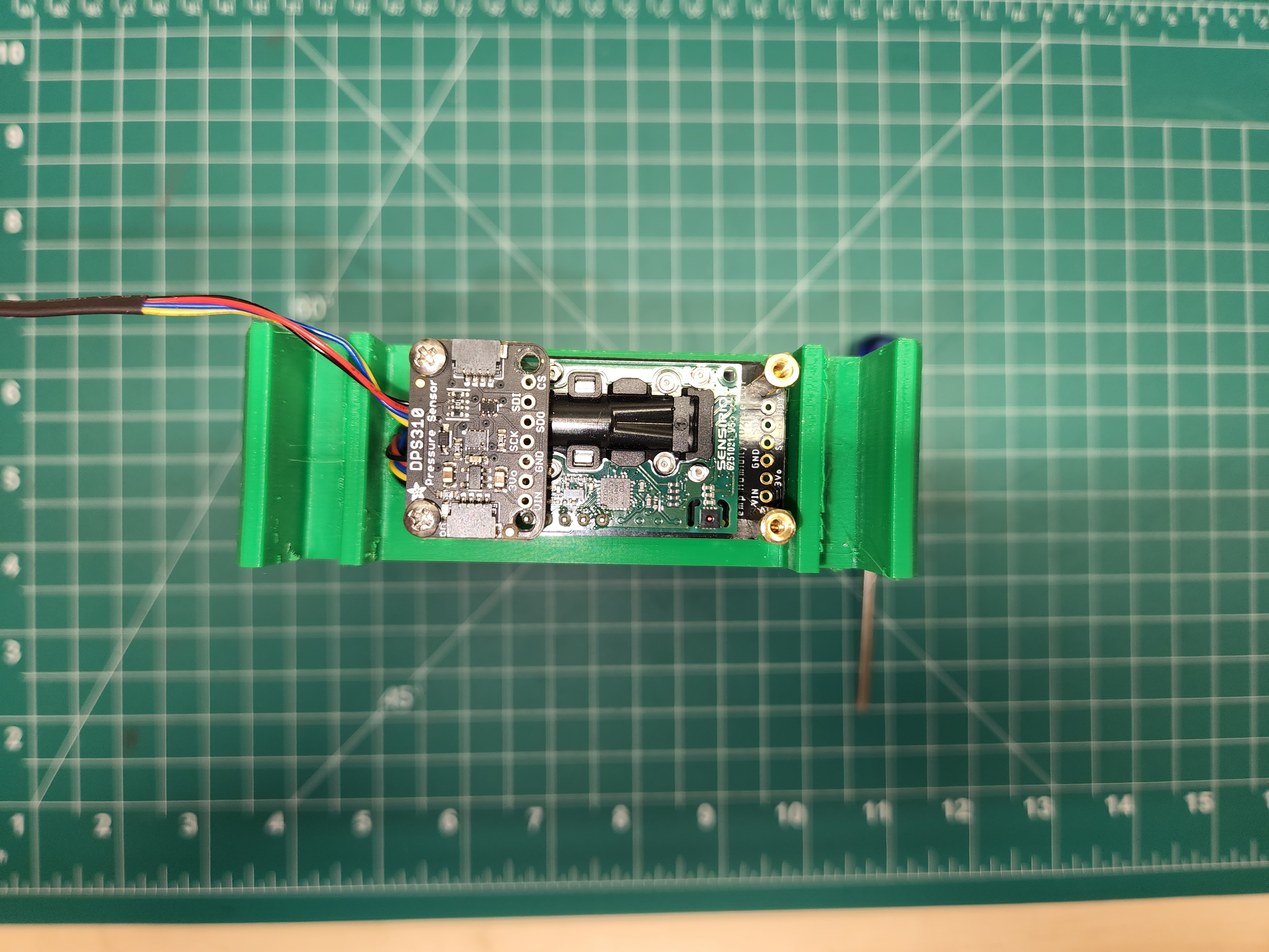
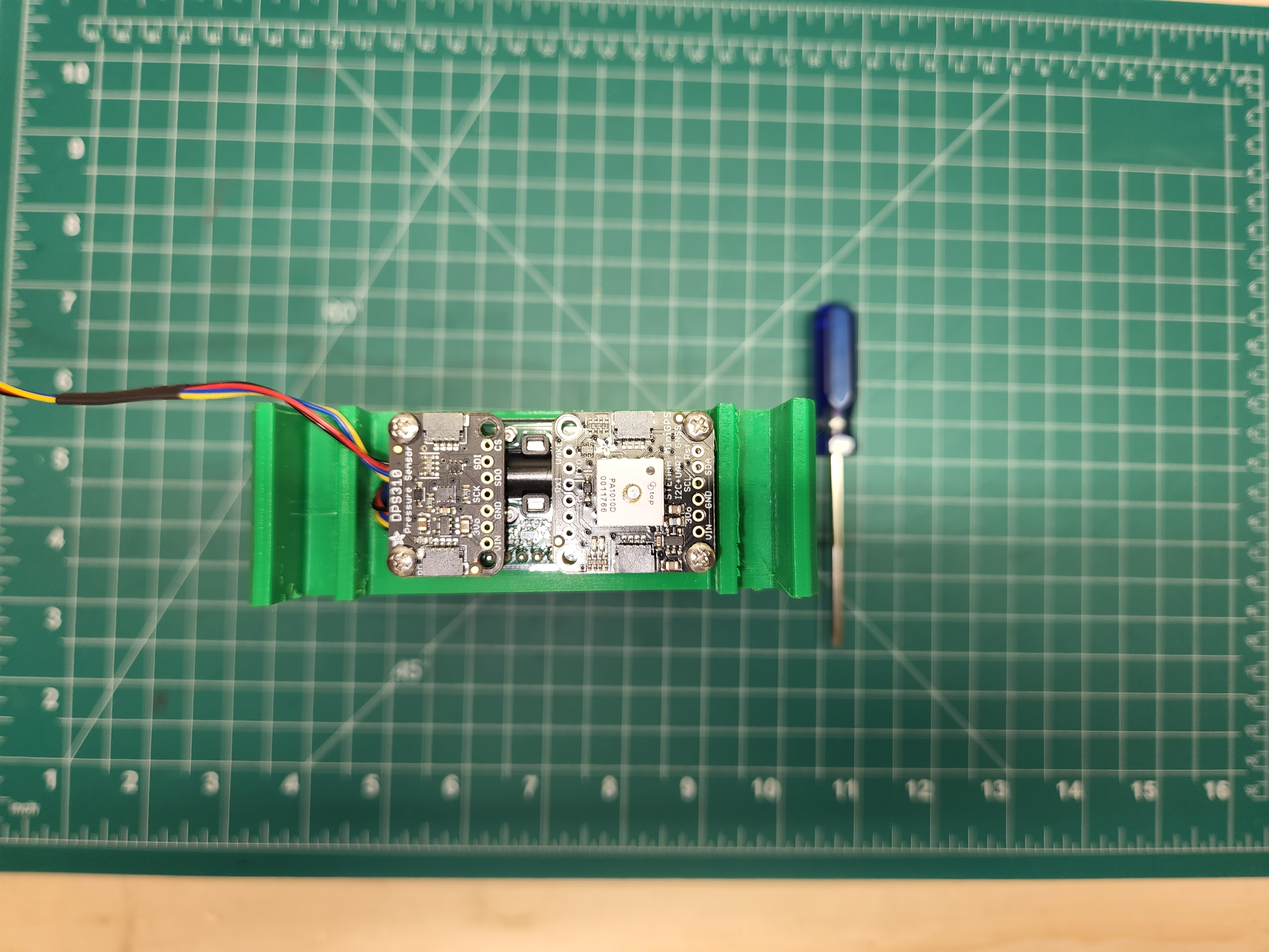
Updated Assembly Instructions
The V3 assembly instructions are updated.  Also copied pictures of the antenna clip and qWIIC adapter from V1 into V3 images.

diff --git a/hardware/v3/assembly-instructions/4-assembly.md b/hardware/v3/assembly-instructions/4-assembly.md
@@ -1,112 +1,195 @@
 # Assembly
-Now to assemble everything!.
+Now to assemble everything!  Below is a picture of all the parts and tools you will need.
 
-## Mount Beaglebone in Main Box
-The first step is to the mount the Beagle Bone Green Gateway in the main
-enclosure box.
+<img src="images/V3 parts and tools overview.jpg" width="600">
 
-<img src="images/bb_enclosure.jpg" width="600">
+## Install the wifi antenna in the base of the enclosure
+You will need a 5/16" wrench to remove and tighten the nut on the antenna base.
 
-Pleace the Beaglebone on the mounts as shown below.
+<img src="images/Install antenna overview.jpg" width="600">
 
-<img src="images/bb_in_enclosure.jpg" width="600">
+Seperate the antenna base from the extension by unscrewing the two.
+Remove the lock washer and nut from the base.
 
-Then attach the beagle bone using 3 M2.5 screws. Careful not to overtighten into
-the 3D printed box.
+<img src="images/install antenna disassembled.jpg" width="600">
 
-<img src="images/bb_bolts.jpg" width="600">
+Now insert the antenna base through the mount point on the enclosure base.  Install the lock washer
+and nut.  Thread the nut onto the base, but do not tighten all the way.  
 
-## Wifi Antennae
-Now the Wifi Antennae need to be connected to the Beaglebone and adhered to the
-inside of the enclosure box.
+<img src="images/Install antenna connector mount.jpg" width="600">
 
-<img src="images/ant_outside.jpg" width="600">
+Attach the antenna extension onto the antenna base by threading the two back together.
+Use the 5/16" wrench to tighten.  Do not over tighten.  Snugging it up will work fine.
 
-Remove the adhesive backing and simply stick the antennae onto the inside of
-the enclosure.
+<img src="images/install antenna using wrench.jpg" width="600">
 
-<img src="images/ant_adhesive.jpg" width="600">
-<img src="images/first_ant_adhered.jpg" width="600">
+## Install the Raspberry Pi carrier board
+For this step you will need the carrier board, four M2.5mm screws, and a small phillips screwdriver
 
-Next, connect the antennae connector to the beaglebone.
+<img src="images/Install pi board overview.jpg" width="600">
 
-<img src="images/micro_ufl.jpg" width="600">
+Place the board on the four mount points molded into the enclosure base.
+Use the four screws to secure the board to the mount points. 
 
-Repeat for the second antennae.
+<img src="images/Install Pi board in place.jpg" width="600">
 
-<img src="images/second_ant.jpg" width="600">
+## Install four short brass standoffs on top of the enclosure
 
-Finished antenna:
+<img src="images/Install small standoffs overview.jpg" width="600">
 
-<img src="images/finished_ant.jpg" width="600">
+The four short brass standoffs can be screwed into place on the top of the enclosure base.
+There are four holes pre drilled into the top of the enclosure.  
+A 5mm socket can be used to tighten the standoffs.
 
-## Sensor Cable
-Connect the Groove to QWIIC cable from the right I2C port on the Beaglebone
-as shown below and route out of the hole in the top of the enclosure.
+<img src="images/Install small standoffs in place.jpg" width="600">
+<img src="images/Install standoffs overhead.jpg" width="600">
 
-<img src="images/sensor_cable.jpg" width="600">
-<img src="images/sensor_cable_out.jpg" width="600">
+## Plug in cables to the SDC-30 sensor
+Next, we need to attach two cables (150mm and 100mm) to the SDC-30.  
 
-## CO2 Sensor Mounts
-Next, the mounts for the CO2 sensor need to be installed. Screw four of the 
-standoffs into the holes in the top of the enclosure box as shown below:
+<img src="images/Install Cables to SDC-30 overview.jpg" width="600">
 
-<img src="images/scd30_mounts.jpg" width="600">
+As shown in the picture, the 150mm cable is plugged into the right port and the 100mm cable
+is plugged into the left port.  
 
-<img src="images/scd_mounts_done.jpg" width="600">
+<img src="images/Install cables to SDC-30 in place.jpg" width="600">
 
-## CO2 Sensor
-Mount the CO2 Sensor onto the standoffs as shown below.
+## Install the SDC-30 sensor on the enclosure base
+Now the SDC-30 is ready to be mounted on the enclosure base.  You will need the SDC-30 with attached cables,
+the two medium and two long brass standoffs, and the 5mm socket.
 
-<img src="images/co2_sensor.jpg" width="600">
+<img src="images/Install SDC-30 overview.jpg" width="600">
 
-## GPS
-Mount the GPS onto the standoffs using two screws as show below.
+Place the SDC-30 on the four short brass standoffs with the cables sitting over the hole in the top of the enclosure base.
 
-<img src="images/gps_mounted.jpg" width="600">
+<img src="images/Install SDC-30 overhead cable route.jpg" width="600">
 
-## Barometer
-Mount the Barometer onto the standoffs using two screws as show below.
+Use the two medium brass standoffs on the left (side with the cable ports) to secure the SDC-30 in place.  
+Use the two long brass standoffs on the right (opposite the cable ports) to secure the other side of the SDC-30.
 
-<img src="images/baro_mounted.jpg" width="600">
+<img src="images/Install SDC-30 in place.jpg" width="600">
+<img src="images/Install SDC-30 overhead in place.jpg" width="600">
 
-## Sensor Cables
-To install, the sensor cables, use one of the short cables to connect the GPS
-to the Barometer as shown below:
+## Soldering Raspberry Pi qWIIC adapter
+The qWIIC adapter, used to connect the CO2 sensor to the Raspberry Pi, comes without headers soldered on.
 
-<img src="images/gps_to_baro.jpg" width="600">
+<img src="images/qwiic_shim_no_headers.jpg" width="600">
 
-Now, use the second cable and connect the barometer to the CO2 sensor. Make
-sure the second port of the CO2 sensor is connected to the cable coming from the 
-Beaglebone in the box.
+You'll need to solder on headers to the bottom, like so:
 
-<img src="images/baro_to_scd.jpg" width="600">
+<img src="images/qwiic_shim_headers.jpg" width="600">
 
-## Sensor Shroud
-Now that the electronics are all done, the protective shroud for the sensors
-can be installed. Make sure the moutning notch is towards the back of the box.
-Watch the wires and snap the shroud into place.
+## Install the qWIIC adapter on the Raspberry Pi carrier board
 
-<img src="images/shroud_off.jpg" width="600">
-<img src="images/shroud_back.jpg" width="600">
+<img src="images/Install WIIC adapter overview.jpg" width="600">
 
-## Head On
-The head of the Frog can now easily be snapped onto the top.
+First, thread the 150mm cable from the SDC-30 through the hole in the top of the enclosure.
+Then plug the cable into the qWIIC adapter as shown:
 
-<img src="images/head_on.jpg" width="600">
+<img src="images/Install WIIC to cable.jpg" width="600">
 
-## Lid
-The last step is to place the lid on the enclosure.
+Plug the qWIIC adaper into place on the bottom six pins of the carrier board.  Orientation shown in picture below:
 
-<img src="images/lid_off.jpg" width="600">
+<img src="images/Install WIIC in place.jpg" width="600">
 
-Snap the lid into the grove and then use a hex wrench to install the two bolts
-at the bottom. Be sure not to overtighten into the platic.
+## Clip the antenna cable into place
 
-<img src="images/lid_on.jpg" width="600">
+The antenna cable clips onto the Raspberry Pi carrier board.  The clip is at the bottom of the board right above the
+power port.
+
+<img src="images/Install antenna cable to board.jpg" width="600">
+
+## Install the Barometer
+To mount the barometer you will need two M2.5mm screws and a small phillips screwdriver.
+
+<img src="images/Install barometer overview.jpg" width="600">
+
+The Barometer sits on the two medium brass standoffs above the cable ports on the SDC-30.  
+Use the screws to secure it in place. 
+
+<img src="images/Install barometer in place.jpg" width="600">
+<img src="images/Install barometer overhead.jpg" width="600">
+
+## Install the GPS
+To mount the GPS you will need two M2.5mm screws and a small phillips screwdriver.  
+
+<img src="images/Install GPS overview.jpg" width="600">
+
+The GPS sits on top of the two large brass standoffs, opposite the barometer.  Use the two screws
+to secure the GPS in place.
+
+<img src="images/Install GPS in place.jpg" width="600">
+<img src="images/Install GPS overhead.jpg" width="600">
+
+## Finish installing the cables
+The free end of the 100mm cable can now be plugged into the GPS.
+Plug the cable into the port that is on the back, above the words "MiniGPS".
+
+The cable should now run from the SDC-30 sensor to the GPS.  
+
+<img src="images/Install 100mmm cable to GPS.jpg" width="600">
+
+Next, the 50mm cable needs to be plugged in.  
+
+<img src="images/Install 50mm cable overview.jpg" width="600">
+
+The 50mm cable runs from the front of the GPS to the front of the barometer.
+
+<img src="images/Install 50mm cable overhead.jpg" width="600">
+
+## Assemble the enclosure
+
+Now we can move on to assembling the enclosure.  The lid will come first.  
+To secure the lid you will ned the two M4 screws and an allen wrench.
+
+<img src="images/Install lid overview.jpg" width="600">
+
+The lid attaches to the enclosure base by lining up the groove and then snapping 
+into place.  It is then secured with the two M4 screws.  Be sure not to over tighten.  
+
+<img src="images/Install lid in place.jpg" width="600">
+
+## Snap on the Shroud
+The lower shroud snaps into place.
+
+<img src="images/Install shroud overview.jpg" width="600">
+
+To snap in place, slide one side of the shroud into place on the clip.  Then press firmly on 
+the other side to snap it down as well.
+
+<img src="images/Install shroud clipped in.jpg" width="600">
+<img src="images/Install shroud in place.jpg" width="600">
+
+## Assemble the Frog Head
+The eyes and mouth need to be glued in place (if printed seperate from the head)
+
+<img src="images/Assemble head overview.jpg" width="600">
+
+Use super glue and place the eyes and mouth just like in the picture:
+
+<img src="images/Assemble head complete.jpg" width="600">
+
+## Install the Frog Head
+The frog head snaps on top of the shroud.
+
+<img src="images/Install head overview.jpg" width="600">
+<img src="images/Install head clips.jpg" width="600">
+
+Use firm, but not excessive, pressure to snap the Frog Head into place.  This snap functions just like the shroud
+in the previous step.
+
+<img src="images/Install head in place.jpg" width="600">
 
 ## Assembly complete!
 The assembly is now complete! Now we just need to place our sensor outside!
+
+The power cable can be routed through the bottom:
+
+<img src="images/Show Power port.jpg" width="600">
+
+The Frog Sensor can be hung using the loop on top, or the nail hook on the back.  
+
+<img src="images/Show nail hook.jpg" width="600">
 
 ## Next Step
 [Sensor Placement](5-sensor-placement.md)
